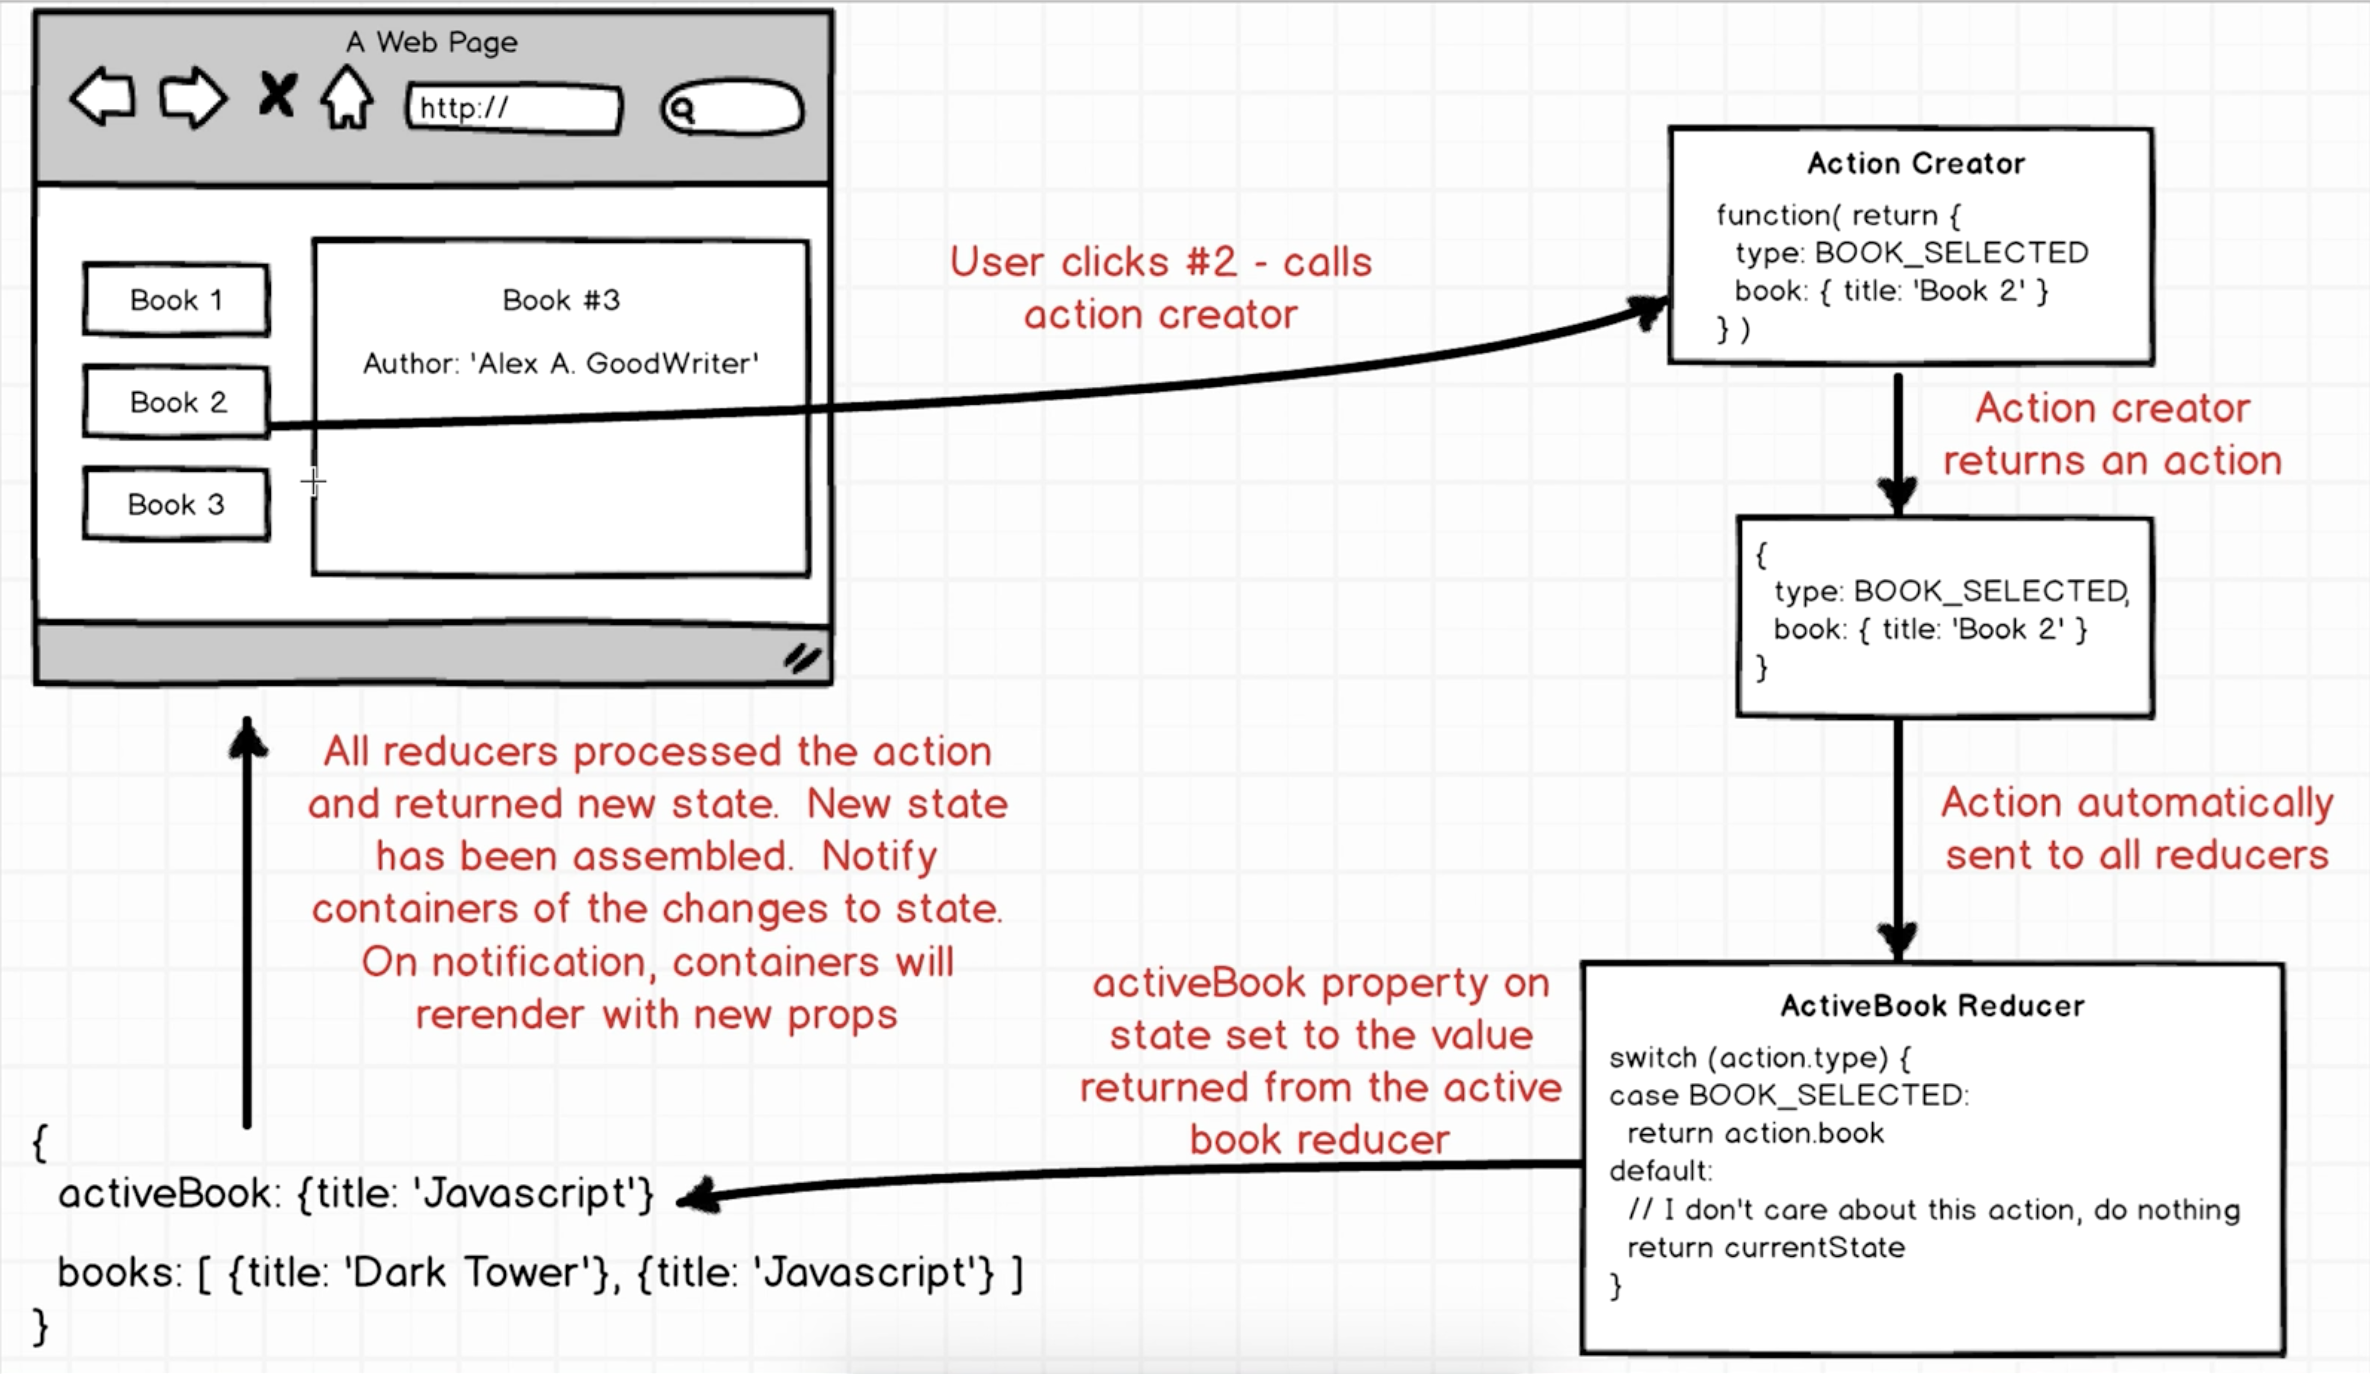
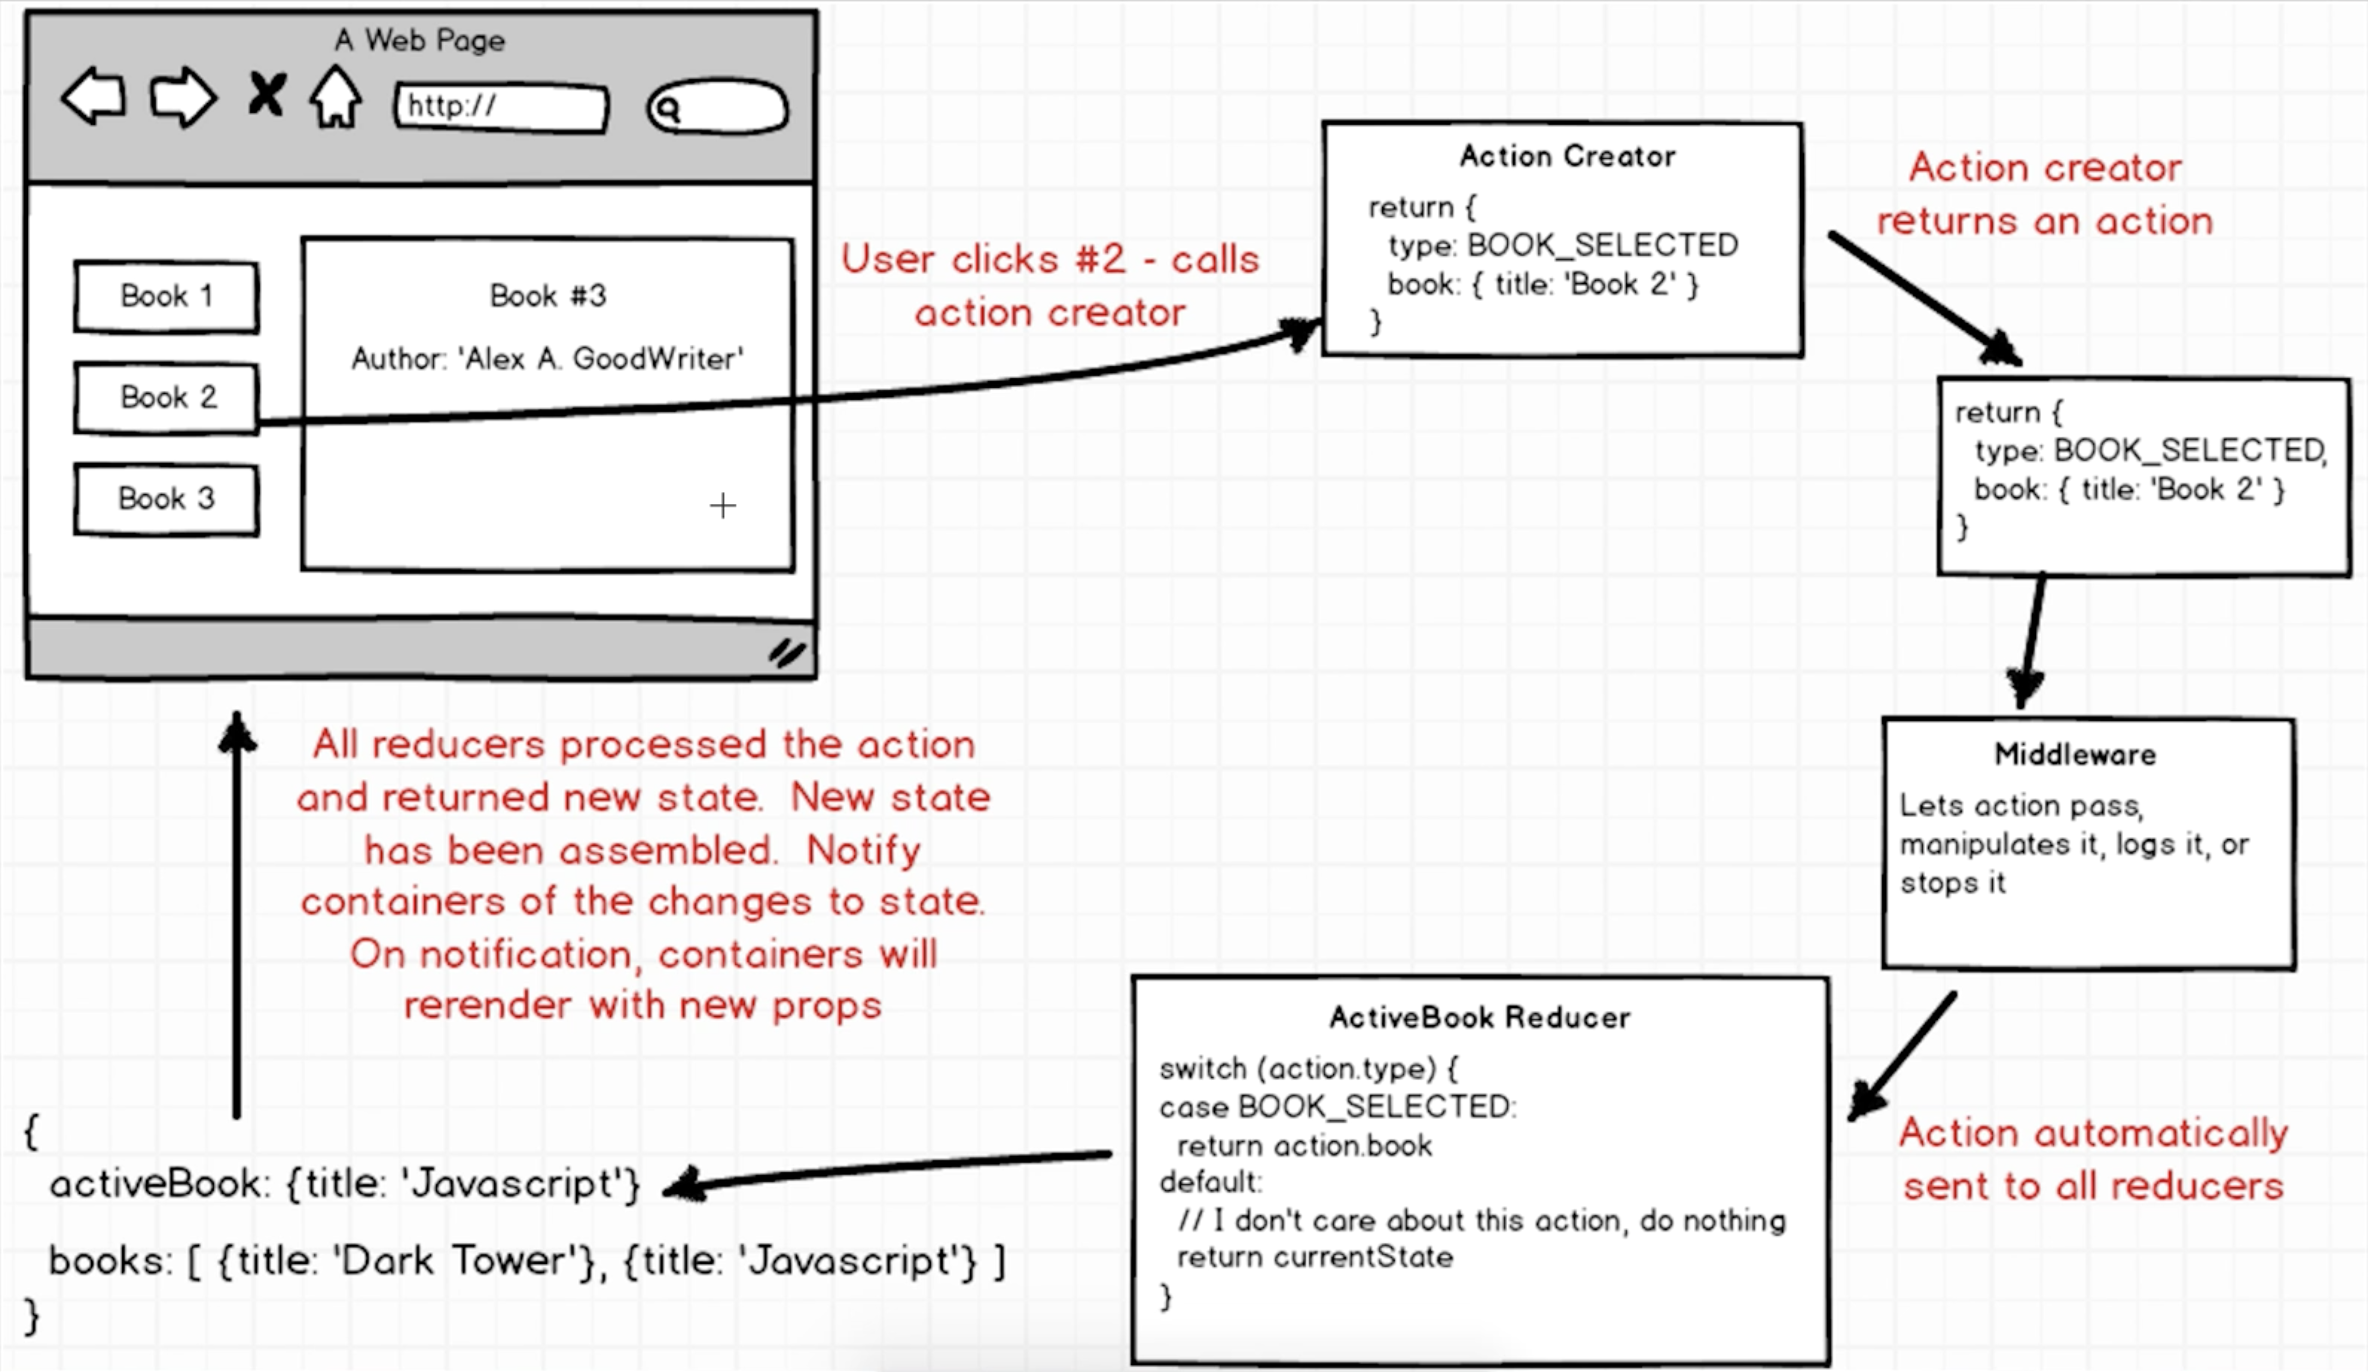
[React] Modern React with Redux, 51 ~ 59
Former-commit-id: bec89af162838d5a8a4fd97e8f35d6bd14d88569

Changed region(s): [[0.0, 0.0, 1.0, 1.0]]

diff --git a/React/react-redux/weather/src/containers/search_bar.js b/React/react-redux/weather/src/containers/search_bar.js
@@ -1,0 +1,47 @@
+import React, { Component } from 'react';
+import { connect } from 'react-redux';
+import { bindActionCreators } from 'redux';
+import { fetchWeather } from '../actions/index';
+
+class SearchBar extends Component {
+    constructor(props) {
+        super(props);
+
+        this.state = { term: '' };
+
+        this.onInputChange = this.onInputChange.bind(this);
+        this.onFormSubmit = this.onFormSubmit.bind(this);
+    }
+
+    onInputChange(event) {
+        this.setState({term: event.target.value});
+    }
+
+    onFormSubmit(event) {
+        event.preventDefault();
+
+        this.props.fetchWeather(this.state.term);
+        this.setState({term: ''});
+    }
+
+    render() {
+        return (
+            <form onSubmit={this.onFormSubmit} className='input-group'>
+                <input
+                    placeholder='Get a five-day forecast in your favorite cities'
+                    className='form-control'
+                    value={this.state.term}
+                    onChange={this.onInputChange} />
+                <span className='input-group-btn'>
+                    <button type='submit' className='btn btn-secondary'>Submit</button>
+                </span>
+            </form>
+        );
+    }
+}
+
+function mapDispatchToProps(dispatch) {
+    return bindActionCreators({fetchWeather}, dispatch);
+}
+
+export default connect(null, mapDispatchToProps)(SearchBar);

diff --git a/React/react-redux/weather/src/index.js b/React/react-redux/weather/src/index.js
@@ -2,11 +2,12 @@ import React from 'react';
 import ReactDOM from 'react-dom';
 import { Provider } from 'react-redux';
 import { createStore, applyMiddleware } from 'redux';
+import ReduxPromise from 'redux-promise';
 
 import App from './components/app';
 import reducers from './reducers';
 
-const createStoreWithMiddleware = applyMiddleware()(createStore);
+const createStoreWithMiddleware = applyMiddleware(ReduxPromise)(createStore);
 
 ReactDOM.render(
   <Provider store={createStoreWithMiddleware(reducers)}>

diff --git a/React/react-redux/weather/src/actions/index.js b/React/react-redux/weather/src/actions/index.js
@@ -1,0 +1,18 @@
+import axios from 'axios';
+
+const API_KEY = '6a9e4406f0c3fbd18b6a6cebcce08584';
+const ROOT_URL = `http://api.openweathermap.org/data/2.5/forecast?appid=${API_KEY}`;
+
+export const FETCH_WEATHER = 'FETCH_WEATHER';
+
+export function fetchWeather(city) {
+    const url = `${ROOT_URL}&q=${city},us`;
+    const request = axios.get(url);
+
+    console.log('Request: ', request);
+
+    return {
+        type: FETCH_WEATHER,
+        payload: request
+    }
+}

diff --git a/React/react-redux/weather/src/components/app.js b/React/react-redux/weather/src/components/app.js
@@ -1,9 +1,12 @@
 import React, { Component } from 'react';
+import SearchBar from '../containers/search_bar';
 
 export default class App extends Component {
   render() {
     return (
-      <div>React simple starter</div>
+      <div>
+          <SearchBar />
+      </div>
     );
   }
 }

diff --git a/React/react-redux/weather/src/reducers/index.js b/React/react-redux/weather/src/reducers/index.js
@@ -1,7 +1,8 @@
 import { combineReducers } from 'redux';
+import WeatherReducer from './reducer_weather';
 
 const rootReducer = combineReducers({
-  state: (state = {}) => state
+    weather: WeatherReducer
 });
 
 export default rootReducer;

diff --git a/React/react-redux/weather/src/reducers/reducer_weather.js b/React/react-redux/weather/src/reducers/reducer_weather.js
@@ -1,0 +1,4 @@
+export default function(state = null, action) {
+    console.log('Action: ', action);
+    return state;
+}

diff --git a/React/react-redux/README.md b/React/react-redux/README.md
@@ -1,2 +1,5 @@
 ### Redux Flow:
 ![Redux Flow](redux_flow.png)
+
+### Redux Promise Middlewares:
+![Redux Promise Middlewares](redux_promise_middlewares.png)
